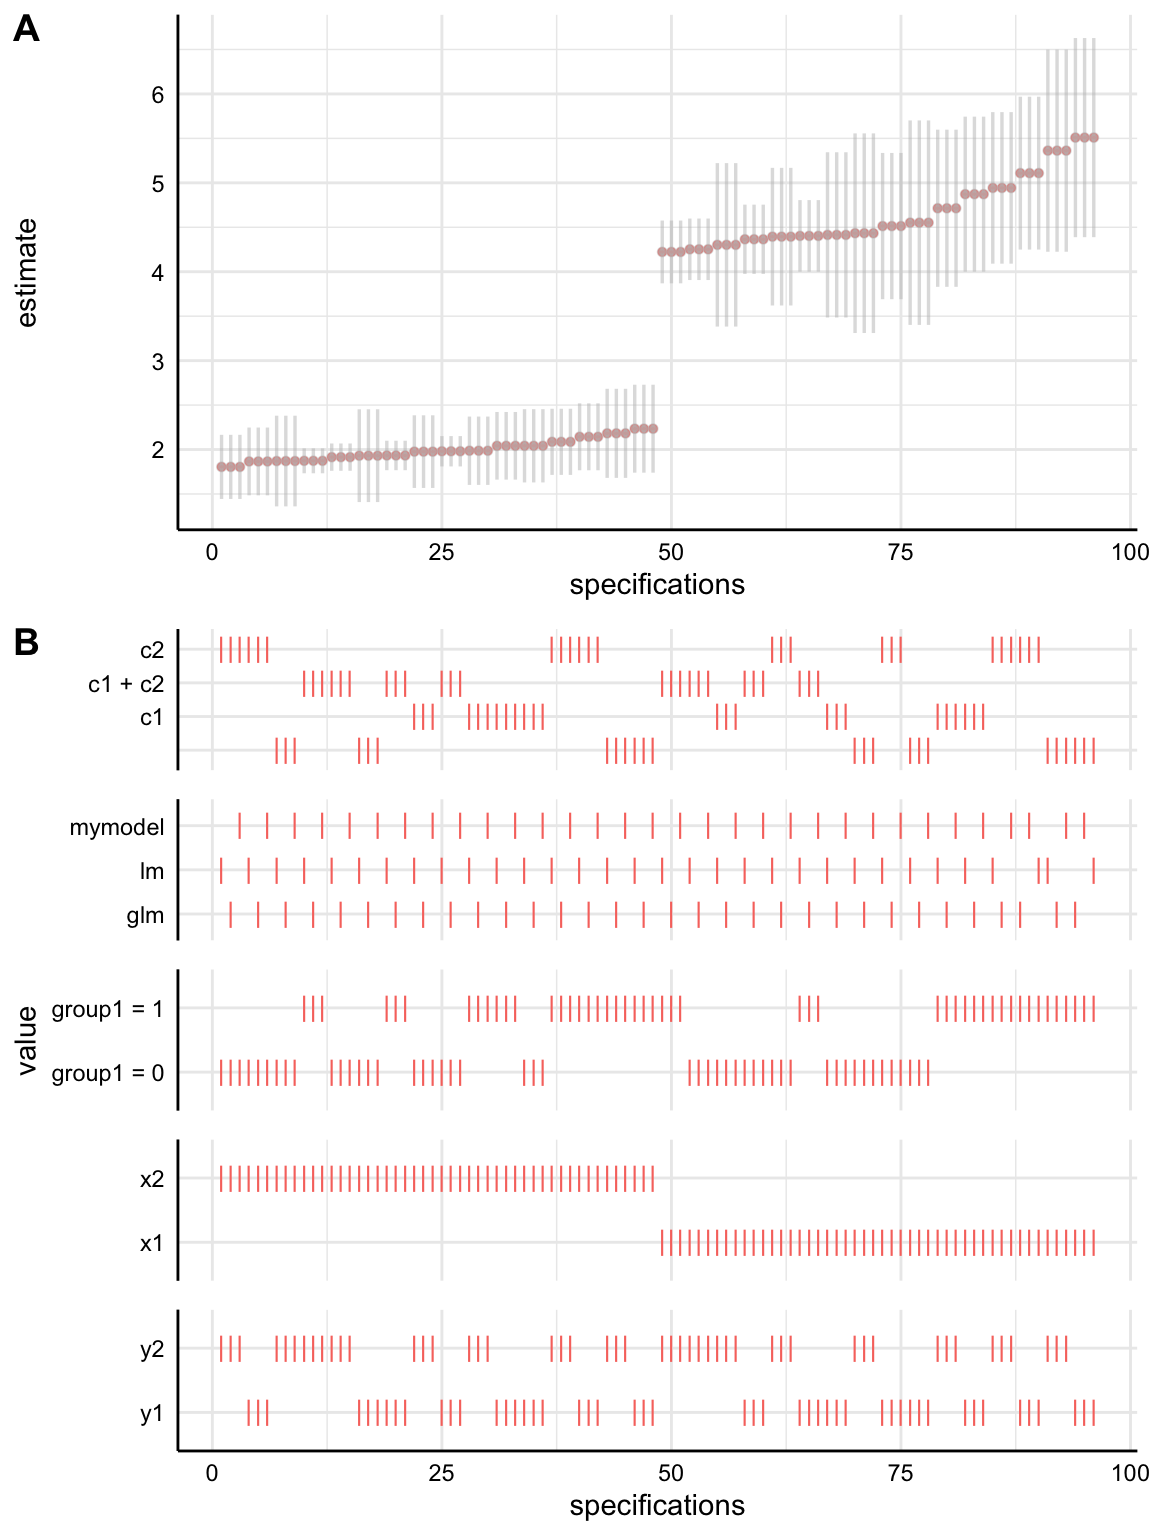
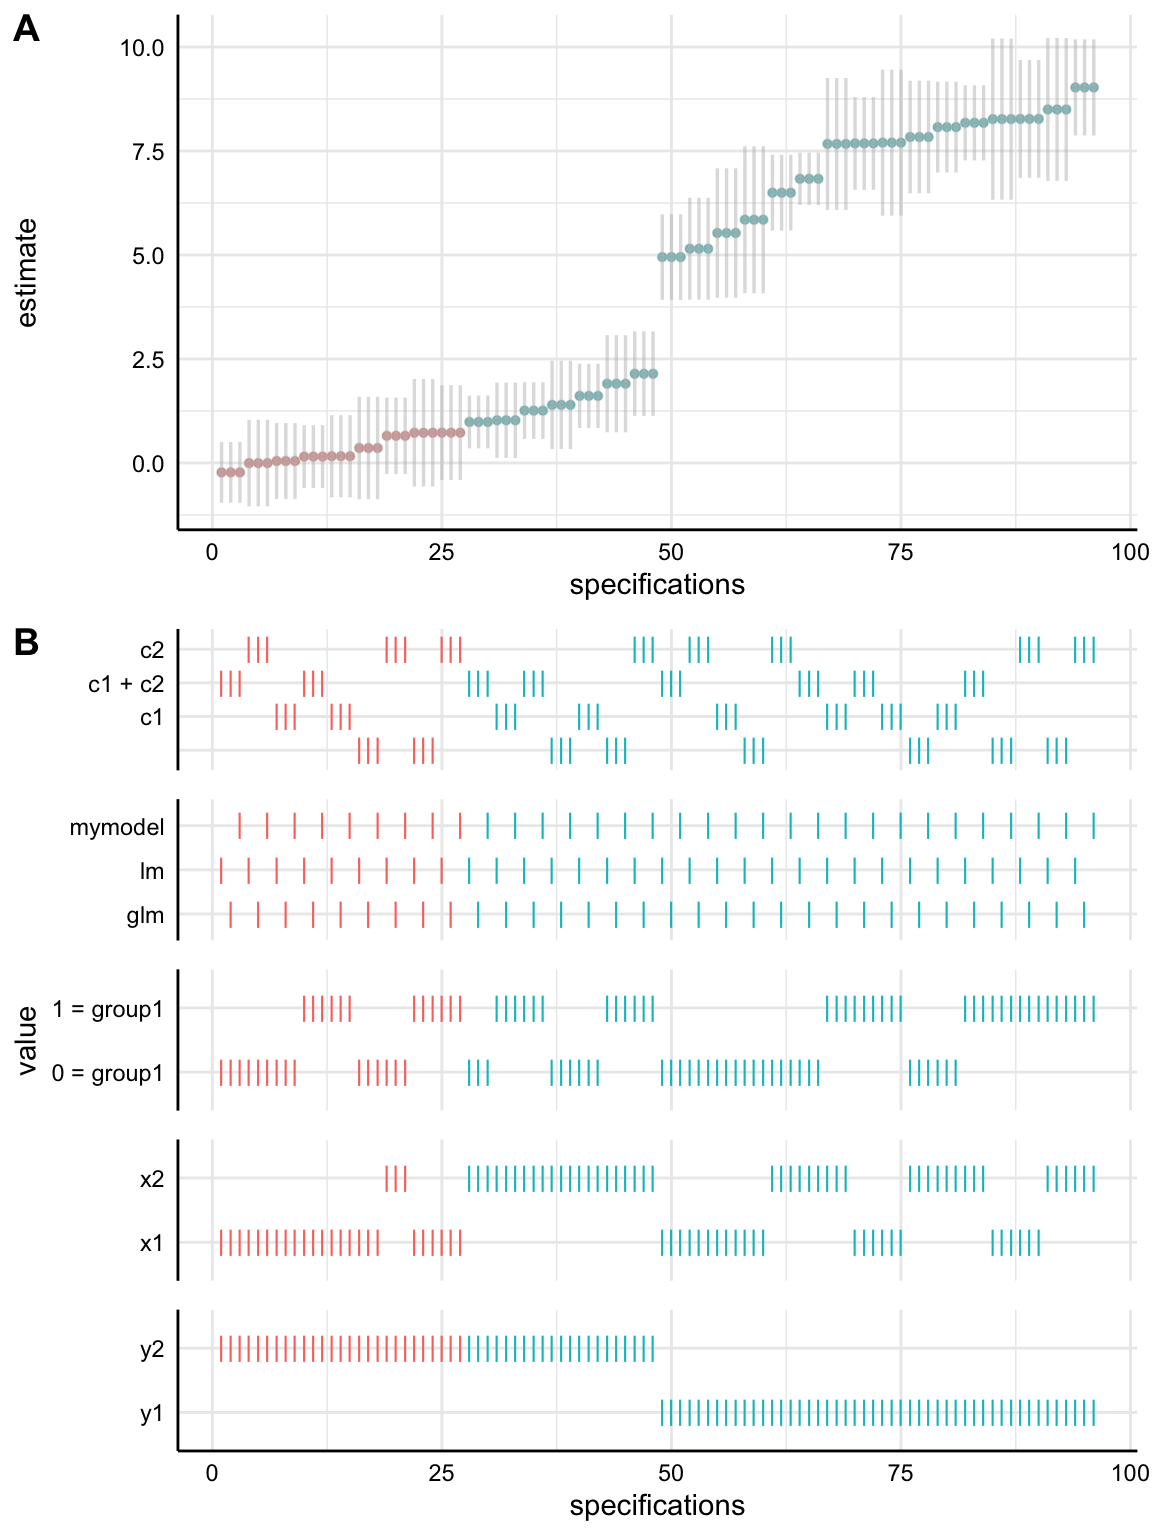
Added example for variance decomposition.

diff --git a/README.md b/README.md
@@ -34,13 +34,20 @@ package. In a first step, check the data (here a simulated data set).
 # Load library
 library(specr)
 head(example_data)
-#>         x1       x2        c1       c2       y1       y2 group1 group2
-#> 1 1.942902 4.104683 0.5941764 3.700289 16.11449 16.04155      0      A
-#> 2 2.512857 3.675712 4.1336440 2.378237 22.75160 22.79317      1      C
-#> 3 3.053931 7.995717 2.0264256 5.254413 32.75778 36.06999      0      C
-#> 4 2.279223 4.451733 3.3688941 3.220657 28.80391 21.77937      1      A
-#> 5 3.599990 6.274502 3.6629448 2.955270 31.78923 32.05191      0      A
-#> 6 2.762323 5.180676 1.5159513 3.132042 14.83215 21.36287      1      C
+#>         x1         x2         c1        c2        y1         y2 group1
+#> 1 1.533913  1.3697122  0.5424902 3.8924435 23.500543 10.4269278      0
+#> 2 1.680639  1.5163745 -1.2415868 3.3377268 17.017955  0.5733467      1
+#> 3 1.223941 -0.2381044  0.1405891 0.8911959 -3.678272  4.2303190      0
+#> 4 1.765276  0.9524049  4.0397943 1.8567454 21.668684 14.8865252      1
+#> 5 1.907134  0.6282816  3.1002518 5.5840574 32.713106 20.5251920      0
+#> 6 1.710695  1.1898467  0.4648824 4.0239483 20.422171  4.3471236      1
+#>   group2
+#> 1      A
+#> 2      C
+#> 3      B
+#> 4      B
+#> 5      A
+#> 6      C
 ```
 
 In a second step, we only need to use the function `run_specs()` and
@@ -65,12 +72,12 @@ head(results)
 #> # A tibble: 6 x 9
 #>   x     y     model controls estimate std.error statistic  p.value subset  
 #>   <chr> <chr> <chr> <chr>       <dbl>     <dbl>     <dbl>    <dbl> <chr>   
-#> 1 x1    y1    lm    c1 + c2      4.37    0.199       22.0 6.45e-60 group1 …
-#> 2 x2    y1    lm    c1 + c2      1.98    0.0871      22.8 1.90e-62 group1 …
-#> 3 x1    y2    lm    c1 + c2      4.25    0.176       24.1 1.08e-66 group1 …
-#> 4 x2    y2    lm    c1 + c2      1.91    0.0784      24.4 1.15e-67 group1 …
-#> 5 x1    y1    glm   c1 + c2      4.37    0.199       22.0 6.45e-60 group1 …
-#> 6 x2    y1    glm   c1 + c2      1.98    0.0871      22.8 1.90e-62 group1 …
+#> 1 x1    y1    lm    c1 + c2     4.95      0.525     9.43  3.11e-18 0 = gro…
+#> 2 x2    y1    lm    c1 + c2     6.83      0.321    21.3   1.20e-57 0 = gro…
+#> 3 x1    y2    lm    c1 + c2    -0.227     0.373    -0.607 5.44e- 1 0 = gro…
+#> 4 x2    y2    lm    c1 + c2     0.985     0.324     3.04  2.62e- 3 0 = gro…
+#> 5 x1    y1    glm   c1 + c2     4.95      0.525     9.43  3.11e-18 0 = gro…
+#> 6 x2    y1    glm   c1 + c2     6.83      0.321    21.3   1.20e-57 0 = gro…
 ```
 
 In a final step, we can use the function `plot_specs()` to produce a
@@ -83,6 +90,30 @@ plot_specs(results)
 ```
 
 <img src="man/figures/README-unnamed-chunk-4-1.png" width="100%" />
+
+Furthermore, we can estimate how much variance in the specification
+curve is related to which analytical decisions. Therefore, we can use
+the function `variance_specs()` to calculate a respective table or
+`plot_variance()`to visualize the distribution.
+
+``` r
+# Decompose variance of the specification curve
+variance_specs(results)
+#> # A tibble: 6 x 4
+#>   grp         vcov     icc percent
+#>   <chr>      <dbl>   <dbl>   <dbl>
+#> 1 controls  0.0526 0.00233   0.233
+#> 2 model     0      0         0    
+#> 3 subset    0.609  0.0270    2.70 
+#> 4 y        20.9    0.927    92.7  
+#> 5 x         0.650  0.0288    2.88 
+#> 6 Residual  0.347  0.0154    1.54
+
+# Plot decomposition
+plot_variance(results)
+```
+
+<img src="man/figures/README-unnamed-chunk-5-1.png" width="100%" />
 
 ## References
 
